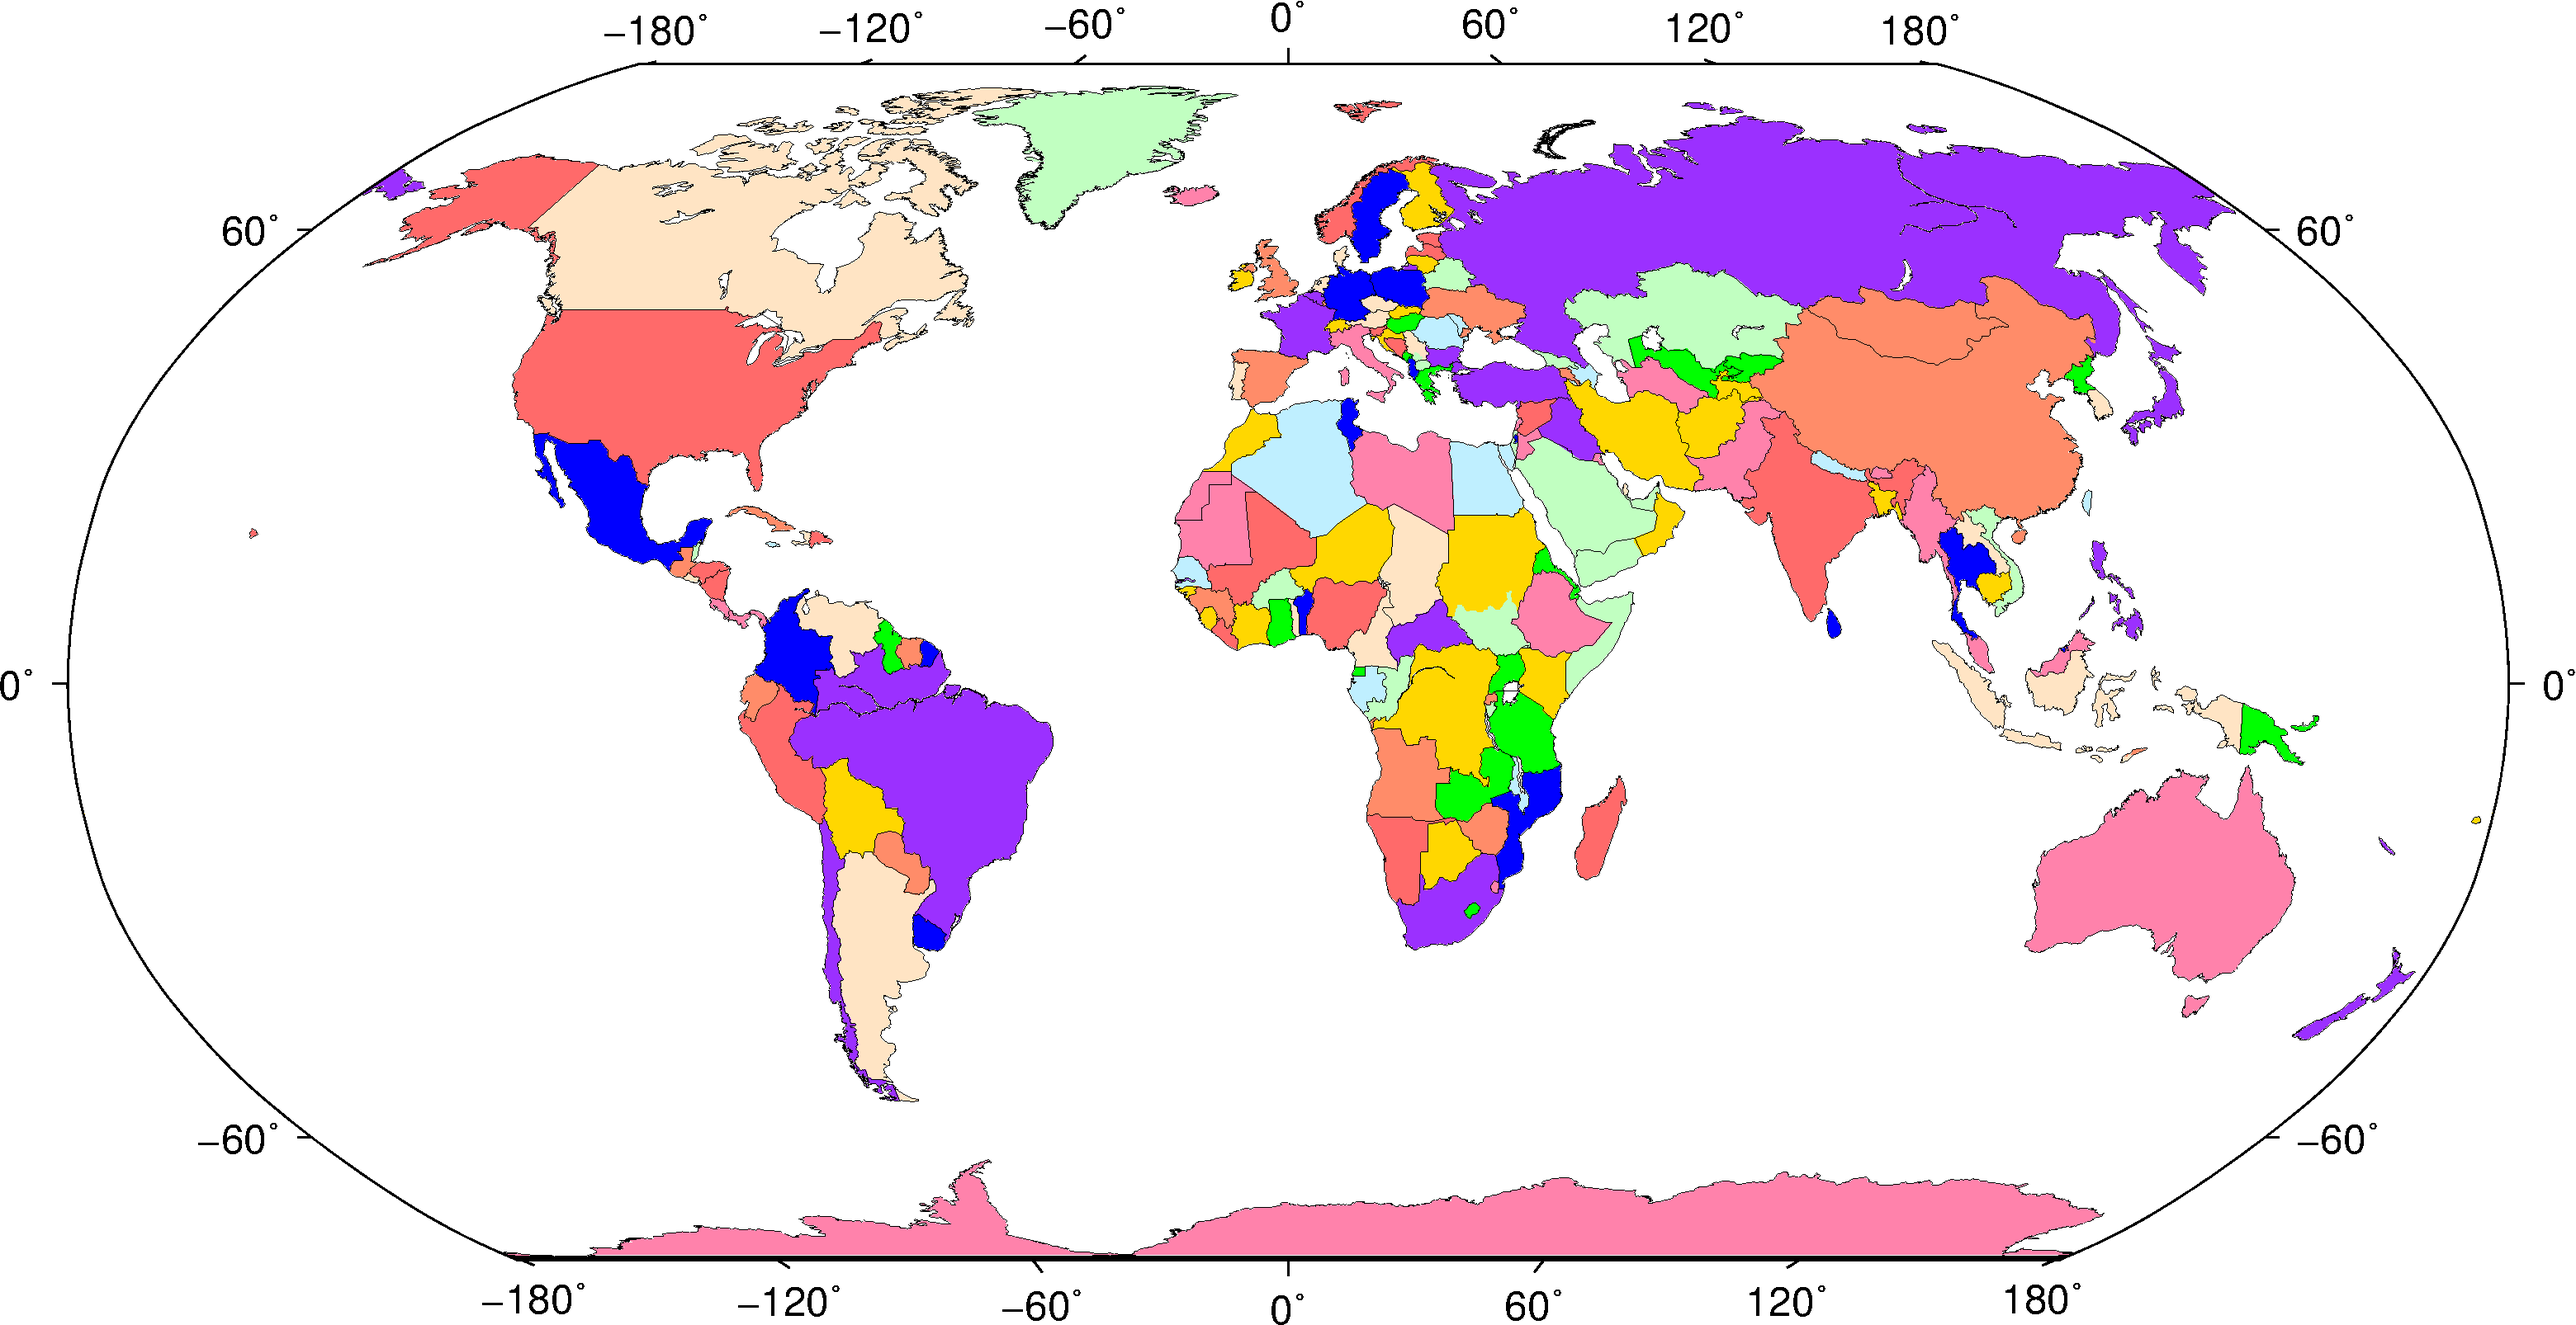
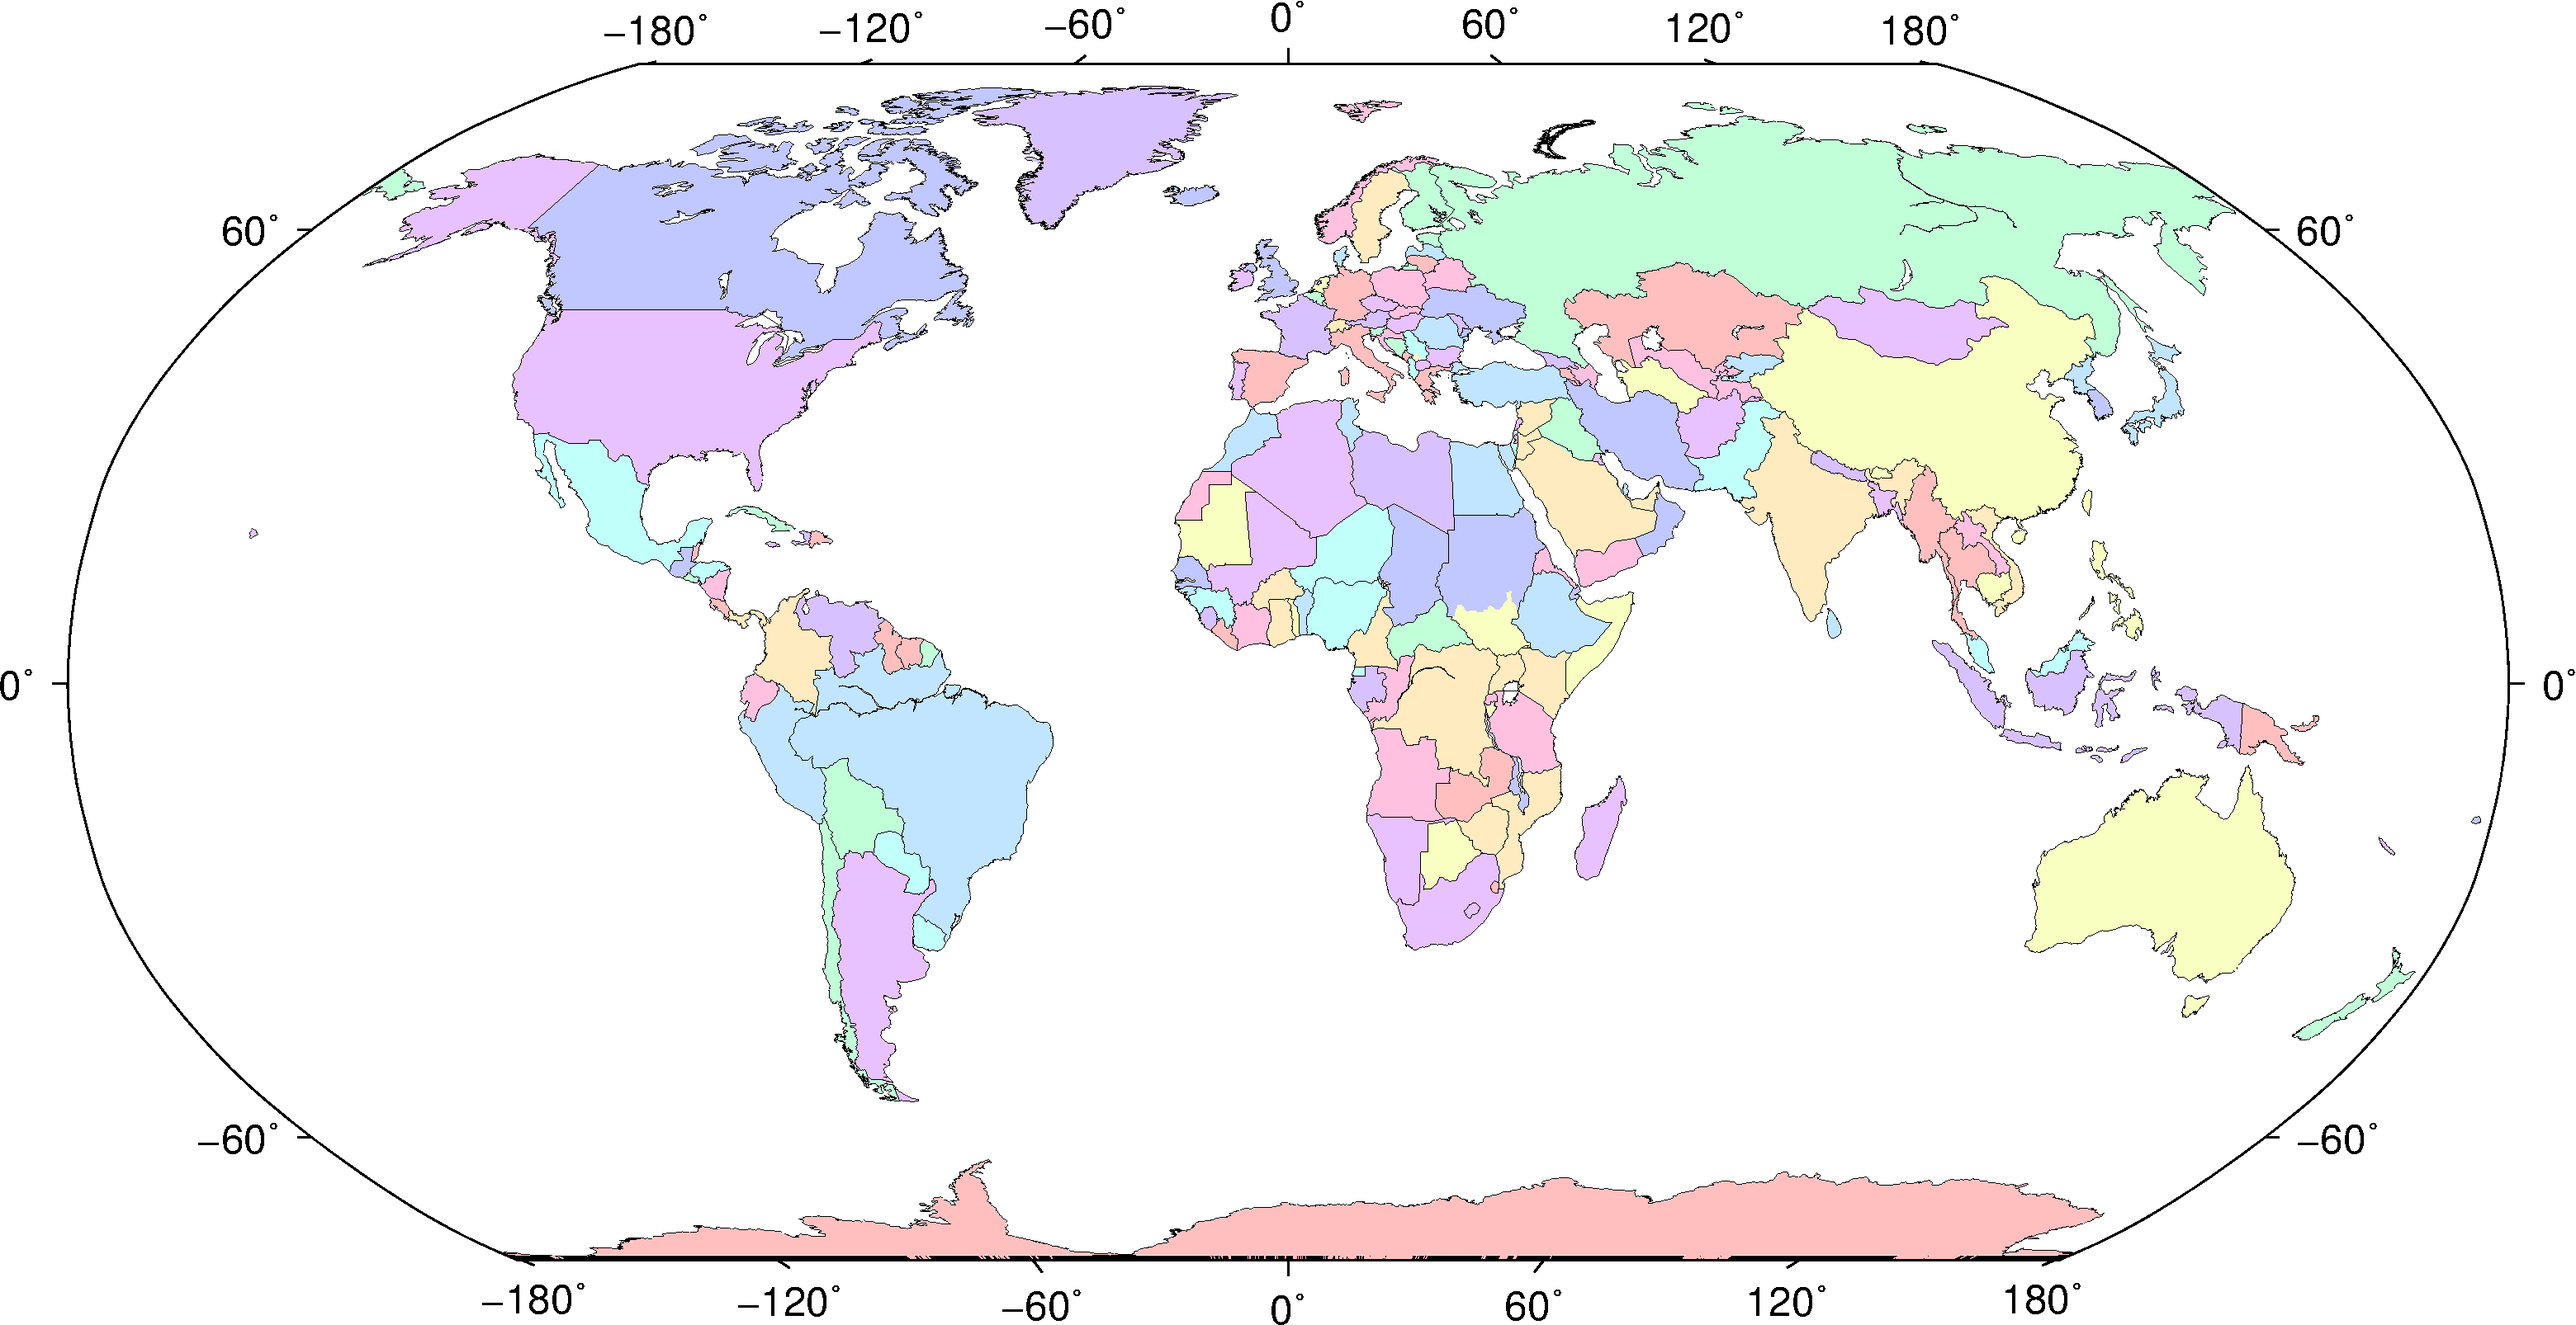
update 5-6

diff --git a/docs/projection.md b/docs/projection.md
@@ -261,8 +261,8 @@ gmt psconvert %ps% -Tg -A -P
 由羅賓森(Arthur H. Robinson)博士在1963年提出，此方法不等積、不等角，使用筆直的緯線及空間均勻分佈的經線，
 加上對經緯度線乘上一個插值表，來實現視覺上平衡。本節將製作全球行政分區地圖，
 透過`pscoast -E+l > CountryCode.txt`可以將各國的國碼及國名輸出成一個檔案，透過Python做了隨機排序及整檔，
-輸出這次範例所需要的[資料檔](dat/CountryCode.dat)，以及手動編輯的[顏色檔](dat/CountryCode.color)，
-但要如何利用這兩個檔案，隨機地幫不同國家上色呢？本節將會使用到`setlocal`讓批次檔現可以接受一個選向引數，
+輸出這次範例所需要的[資料檔](dat/CountryCode.dat)，但要如何利用這個檔案，幫不同國家上色呢？
+本節將會使用到`setlocal`讓批次檔現可以接受一個選項引數，
 `ENABLEDELAYEDEXPANSION`啟用延遲環境變數擴充功能，來批次設定國家的顏色。讓我們來看成果及批次檔吧！
 
 成果圖
@@ -276,14 +276,14 @@ set ps=5_6_globalNationalBoundary.ps
 
 setlocal ENABLEDELAYEDEXPANSION
 set vidx=0
-for /F "tokens=*" %%A in (CountryCode.dat) do (
+for /F "tokens=2" %%A in (CountryCode.dat) do (
     set /A vidx=!vidx! + 1
     set var!vidx!=%%A
 )
 set var
 
 set vidx=0
-for /F "tokens=*" %%A in (CountryCode.color) do (
+for /F "tokens=1" %%A in (CountryCode.dat) do (
     set /A vidx=!vidx! + 1
     set color!vidx!=%%A
 )
